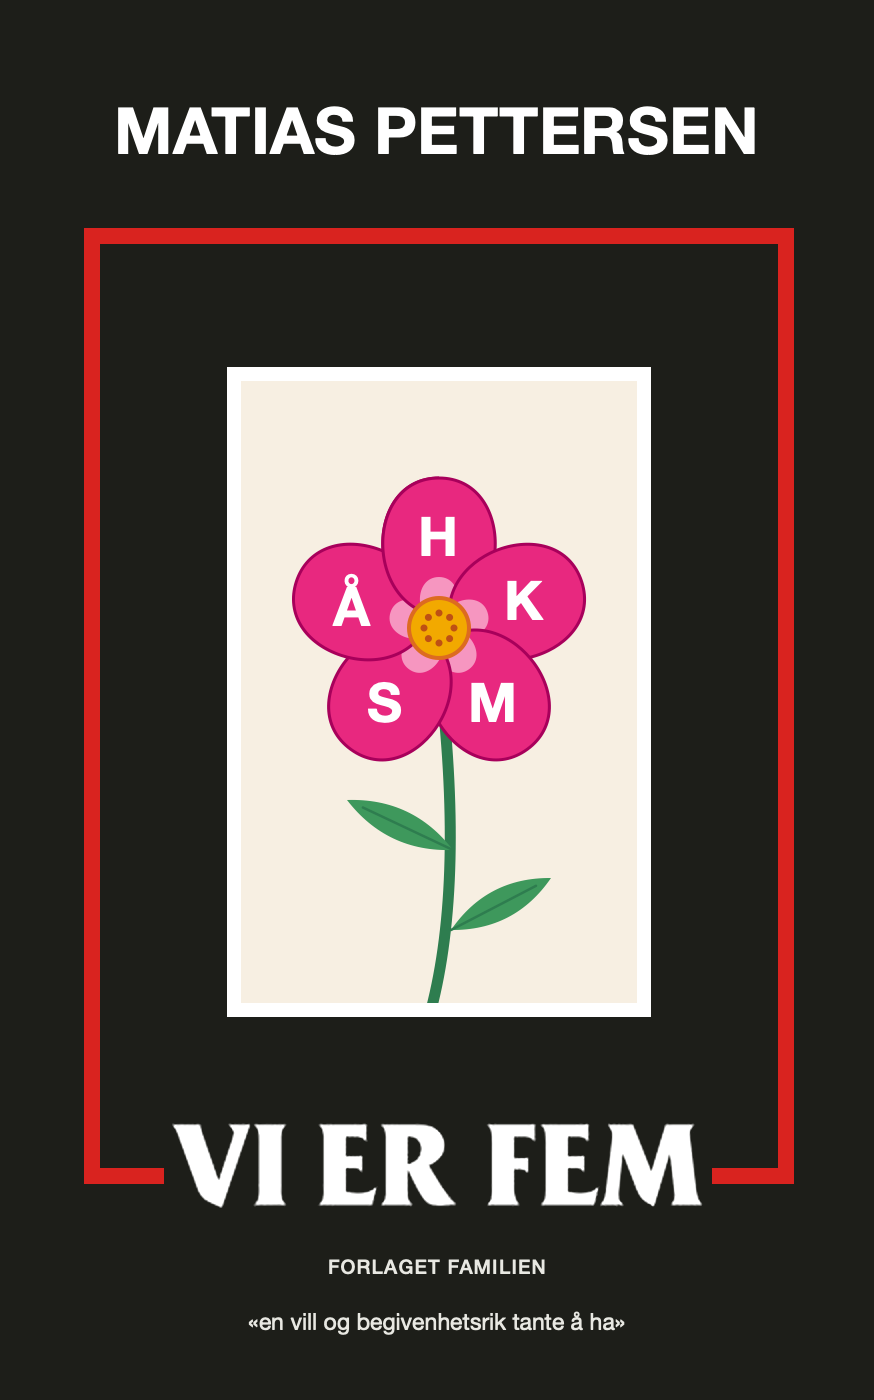
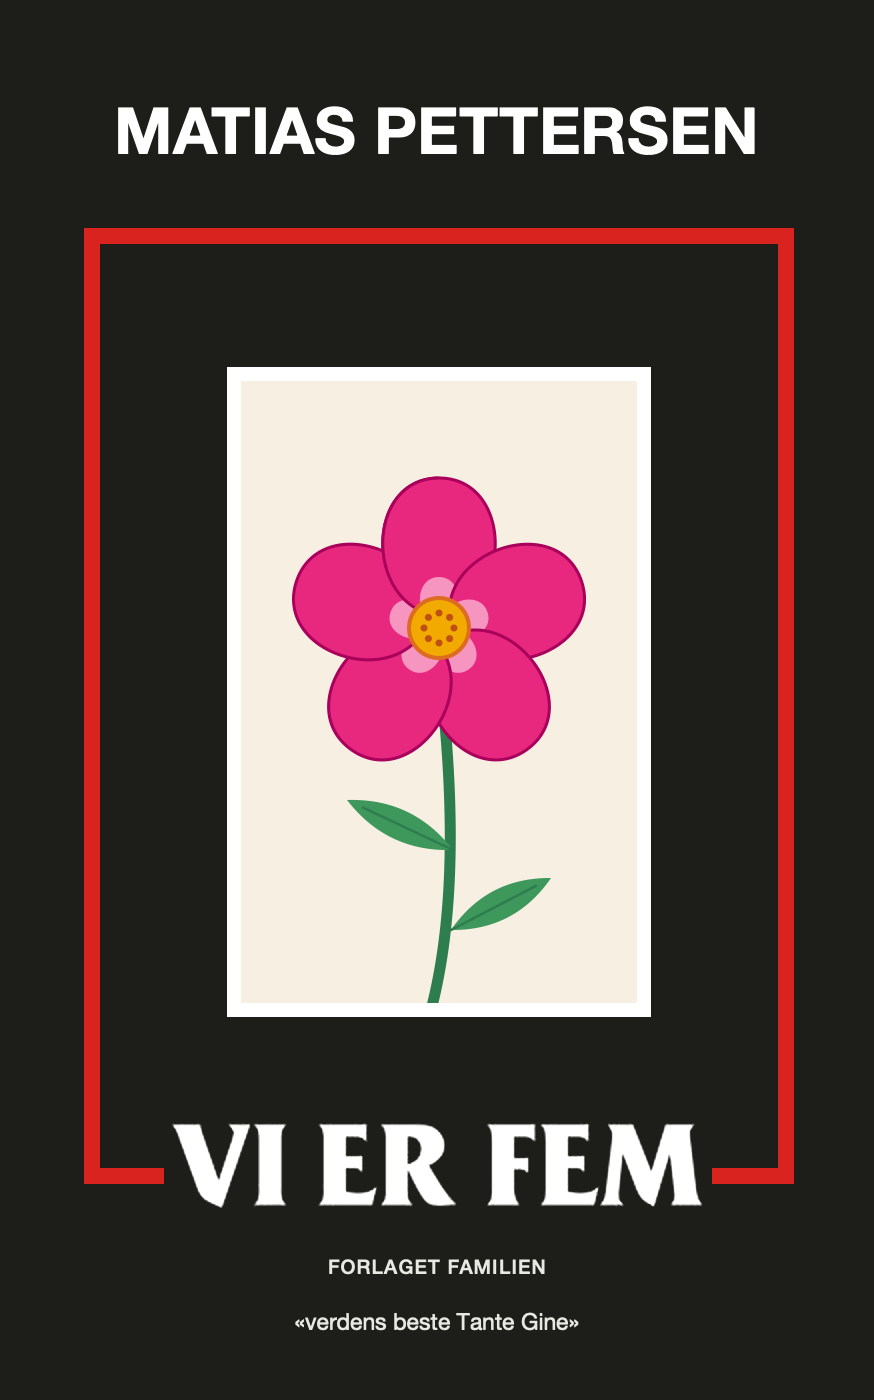
Tap the petals to reveal the letters, plus a hidden finale shortcut
- The cover's flower now starts blank; each petal shows its letter
  (H, K, M, S, Å) when tapped, with a marimba note, and the caption
  turns into "Fem blader, én blomst." once all five are found.
- Cover quote is now «verdens beste Tante Gine».
- Hidden shortcuts to the finale: open the page with #finale, or tap
  "VS" on the poster five times quickly.

diff --git a/index.html b/index.html
@@ -218,18 +218,36 @@
   .gallery img { width: 100%; aspect-ratio: 1; object-fit: cover; display: block; }
   .finale-actions { display: flex; flex-wrap: wrap; gap: 14px; justify-content: center; }
   /* the family's own edition of «Vi er fem», shown like a book leaning on the poster */
-  .book { margin: 10px 0 0; width: min(68vw, 300px, 44dvh); display: flex; flex-direction: column; align-items: center; gap: 16px; }
-  .book button { padding: 0; border: 0; background: none; width: 100%; transform: rotate(1.5deg); transition: transform .2s ease; }
-  .book button:hover { transform: rotate(0) scale(1.02); }
+  .book { margin: 10px 0 0; width: min(84vw, 360px, 56dvh); display: flex; flex-direction: column; align-items: center; gap: 16px; }
+  .book-cover { position: relative; width: 100%; transform: rotate(1.5deg); }
   .book img { display: block; width: 100%; height: auto; border-radius: 2px 5px 5px 2px; box-shadow: inset 0 0 0 1px rgba(255,255,255,.08), 8px 8px 0 var(--tinta); }
-  .book figcaption { font-family: var(--display); font-size: clamp(16px, 4.4vw, 22px); line-height: 1.2; color: var(--papel); text-shadow: 2px 2px 0 var(--tinta); text-wrap: balance; }
+  .book figcaption { font-family: var(--display); font-size: clamp(16px, 4.4vw, 22px); line-height: 1.2; color: var(--papel); text-shadow: 2px 2px 0 var(--tinta); text-wrap: balance; min-height: 1.2em; }
+  /* the petals sit over the cover's flower (same 874×1400 grid as the image) and show a letter when tapped */
+  .petals { position: absolute; inset: 0; width: 100%; height: 100%; overflow: visible; }
+  .petal-hit { cursor: pointer; outline: none; -webkit-tap-highlight-color: transparent; }
+  .petal-hit .zone { fill: transparent; }
+  .petal-hit:focus-visible .zone { stroke: var(--amarillo); stroke-width: 6; }
+  .petal-hit .hint { fill: #fff; transform-box: fill-box; transform-origin: center; animation: petal-hint 1.6s ease-in-out infinite; }
+  .petal-hit .letter {
+    fill: #fff; font: 700 54px "Helvetica Neue", Helvetica, Arial, sans-serif; opacity: 0;
+    transform-box: fill-box; transform-origin: center; transform: scale(.2);
+    transition: opacity .25s ease, transform .5s cubic-bezier(.2, 1.6, .4, 1);
+  }
+  .petal-hit .burst { fill: none; stroke: #fff; stroke-width: 5; opacity: 0; transform-box: fill-box; transform-origin: center; }
+  .petal-hit.shown { cursor: default; }
+  .petal-hit.shown .hint { display: none; }
+  .petal-hit.shown .letter { opacity: 1; transform: none; }
+  .petal-hit.shown .burst { animation: petal-burst .6s ease-out; }
+  @keyframes petal-hint { 0%, 100% { opacity: .15; transform: scale(.8); } 50% { opacity: .65; transform: scale(1.15); } }
+  @keyframes petal-burst { from { opacity: .9; transform: scale(.4); } to { opacity: 0; transform: scale(1.9); } }
 
   #lightbox { position: absolute; inset: 0; z-index: 20; background: rgba(35,26,21,.92); display: flex; align-items: center; justify-content: center; padding: 16px; }
   #lightbox img { max-width: 100%; max-height: 86%; border: 8px solid #fffdf7; box-shadow: 0 16px 40px rgba(0,0,0,.5); }
   #lightbox p { position: absolute; bottom: calc(20px + env(safe-area-inset-bottom, 0px)); left: 0; right: 0; text-align: center; font-family: var(--display); font-size: 13px; color: var(--papel); }
 
   @media (prefers-reduced-motion: reduce) {
-    #tapnote, #super-wrap.ready .bar, #scrollcue { animation: none; }
+    #tapnote, #super-wrap.ready .bar, #scrollcue, .petal-hit .hint, .petal-hit.shown .burst { animation: none; }
+    .petal-hit .letter { transform: none; transition: opacity .2s ease; }
   }
 </style>
 </head>
@@ -297,10 +315,11 @@
       <div class="meterline">Cariñómetro: <b>∞ %</b> (måleren tålte ikke mer)</div>
     </article>
     <figure class="book">
-      <button type="button" id="book-open" aria-label="Vis omslaget «Vi er fem» i stort format">
-        <img src="img/vi-er-fem.png" width="874" height="1400" loading="lazy" alt="Bokomslag: Matias Pettersen, «Vi er fem». I midten en blomst med fem blader merket H, K, M, S og Å.">
-      </button>
-      <figcaption>Vi er fem, og du er en av oss.</figcaption>
+      <div class="book-cover">
+        <img src="img/vi-er-fem.png" width="874" height="1400" loading="lazy" alt="Bokomslag: Matias Pettersen, «Vi er fem». I midten en blomst med fem blader.">
+        <svg class="petals" id="petals" viewBox="0 0 874 1400" role="group" aria-label="Blomsten på omslaget. Trykk på bladene for å se bokstavene."></svg>
+      </div>
+      <figcaption id="book-note" aria-live="polite">Trykk på bladene</figcaption>
     </figure>
     <div class="finale-actions">
       <button class="btn ghost" id="sing-again">Spill sangen igjen</button>
@@ -1060,7 +1079,8 @@
     const f = $("finale"); f.hidden = false; f.scrollTop = 0;
     drawPicado($("picado2"));
     buildGallery();
-    sing();
+    resetPetals();
+    sing();   // opened straight from the #finale link there is no tap yet, so no sound: «Spill sangen igjen» starts it
     requestAnimationFrame(updateCue);
   }
   // The finale is taller than a phone: point out that the message and the photos are further down.
@@ -1100,7 +1120,71 @@
   }
   function openLightbox(src) { const lb = $("lightbox"); lb.querySelector("img").src = src; lb.hidden = false; }
   $("lightbox").addEventListener("click", () => { $("lightbox").hidden = true; });
-  $("book-open").addEventListener("click", () => openLightbox("img/vi-er-fem.png"));
+
+  // The flower on the «Vi er fem» cover: each petal shows its letter when tapped, one by one.
+  const petalsSvg = $("petals"), SVGNS = "http://www.w3.org/2000/svg";
+  const PETAL_LETTERS = ["H", "K", "M", "S", "Å"];   // clockwise from the top, as on the cover
+  const PETAL_NOTES = [72, 74, 76, 79, 81];           // marimba notes, one step up for each petal found
+  let petalsShown = 0;
+  function svgEl(tag, attrs) { const n = document.createElementNS(SVGNS, tag); for (const k in attrs) n.setAttribute(k, attrs[k]); return n; }
+  function chime(midi, delay = 0) {
+    if (!audio.ctx || !audio.on) return;
+    initAudio();
+    const t = audio.ctx.currentTime + 0.01 + delay;
+    marimba(audio.ctx, audio.sfx, mtof(midi), t, 0.4);
+    marimba(audio.ctx, audio.sfx, mtof(midi + 12), t + 0.01, 0.08);
+  }
+  PETAL_LETTERS.forEach((ch, k) => {
+    // flower geometry from the cover: centre (439, 628), petal length 150, letter at 0.61 of it
+    const cx = 439, cy = 628, R = 150, th = -Math.PI / 2 + k * 2 * Math.PI / 5;
+    const lx = cx + Math.cos(th) * 0.61 * R, ly = cy + Math.sin(th) * 0.61 * R;
+    const a0 = th - Math.PI / 5, a1 = th + Math.PI / 5, rr = R * 1.12;   // a generous wedge to tap
+    const g = svgEl("g", { class: "petal-hit", tabindex: "0", role: "button", "aria-label": `Blad ${k + 1}` });
+    g.append(
+      svgEl("path", { class: "zone", d: `M${cx},${cy} L${cx + Math.cos(a0) * rr},${cy + Math.sin(a0) * rr} A${rr},${rr} 0 0 1 ${cx + Math.cos(a1) * rr},${cy + Math.sin(a1) * rr} Z` }),
+      svgEl("circle", { class: "hint", cx: lx, cy: ly, r: 9 }),
+      svgEl("circle", { class: "burst", cx: lx, cy: ly, r: 34 })
+    );
+    const letter = svgEl("text", { class: "letter", x: lx, y: ly + 19.5, "text-anchor": "middle" });
+    letter.textContent = ch; g.append(letter);
+    const reveal = () => {
+      if (g.classList.contains("shown")) return;
+      g.classList.add("shown"); g.setAttribute("aria-label", `Blad ${k + 1}: ${ch}`);
+      chime(PETAL_NOTES[petalsShown]);
+      petalsShown++;
+      if (petalsShown === PETAL_LETTERS.length) {
+        [72, 76, 79, 84].forEach((m, i) => chime(m, 0.35 + i * 0.13));
+        const note = $("book-note");
+        setTimeout(() => {
+          note.textContent = "Fem blader, én blomst.";
+          note.animate([{ opacity: 0, transform: "translateY(6px)" }, { opacity: 1, transform: "none" }], { duration: 500, easing: "ease-out" });
+        }, 400);
+      }
+    };
+    g.addEventListener("click", reveal);
+    g.addEventListener("keydown", (e) => { if (e.key === "Enter" || e.key === " ") { e.preventDefault(); reveal(); } });
+    petalsSvg.append(g);
+  });
+  function resetPetals() {
+    petalsShown = 0;
+    petalsSvg.querySelectorAll(".petal-hit").forEach((g, k) => { g.classList.remove("shown"); g.setAttribute("aria-label", `Blad ${k + 1}`); });
+    $("book-note").textContent = "Trykk på bladene";
+  }
+
+  // Hidden shortcuts to the finale: open the page with #finale, or tap «VS» on the poster five times quickly.
+  function jumpToFinale() {
+    if (state === "finale") return;
+    stopSong();
+    $("poster").hidden = true; $("announce").hidden = true;
+    showFinale();
+  }
+  let vsTaps = 0, vsTimer = null;
+  document.querySelector(".vs").addEventListener("click", () => {
+    vsTaps++; clearTimeout(vsTimer); vsTimer = setTimeout(() => { vsTaps = 0; }, 1500);
+    if (vsTaps >= 5) { vsTaps = 0; initAudio(); jumpToFinale(); }   // a real tap, so the song can play
+  });
+  const finaleFromLink = () => { if (location.hash === "#finale") jumpToFinale(); };
+  window.addEventListener("hashchange", finaleFromLink);
 
   $("start").addEventListener("click", (e) => { e.stopPropagation(); startIntro(); });
   $("play-again").addEventListener("click", () => { stopSong(); startIntro(); });
@@ -1301,6 +1385,7 @@
   titleLoop();
   // stop the poster loop once we leave it
   $("start").addEventListener("click", () => { state = state === "title" ? "intro" : state; });
+  finaleFromLink();
 })();
 </script>
 </body>
